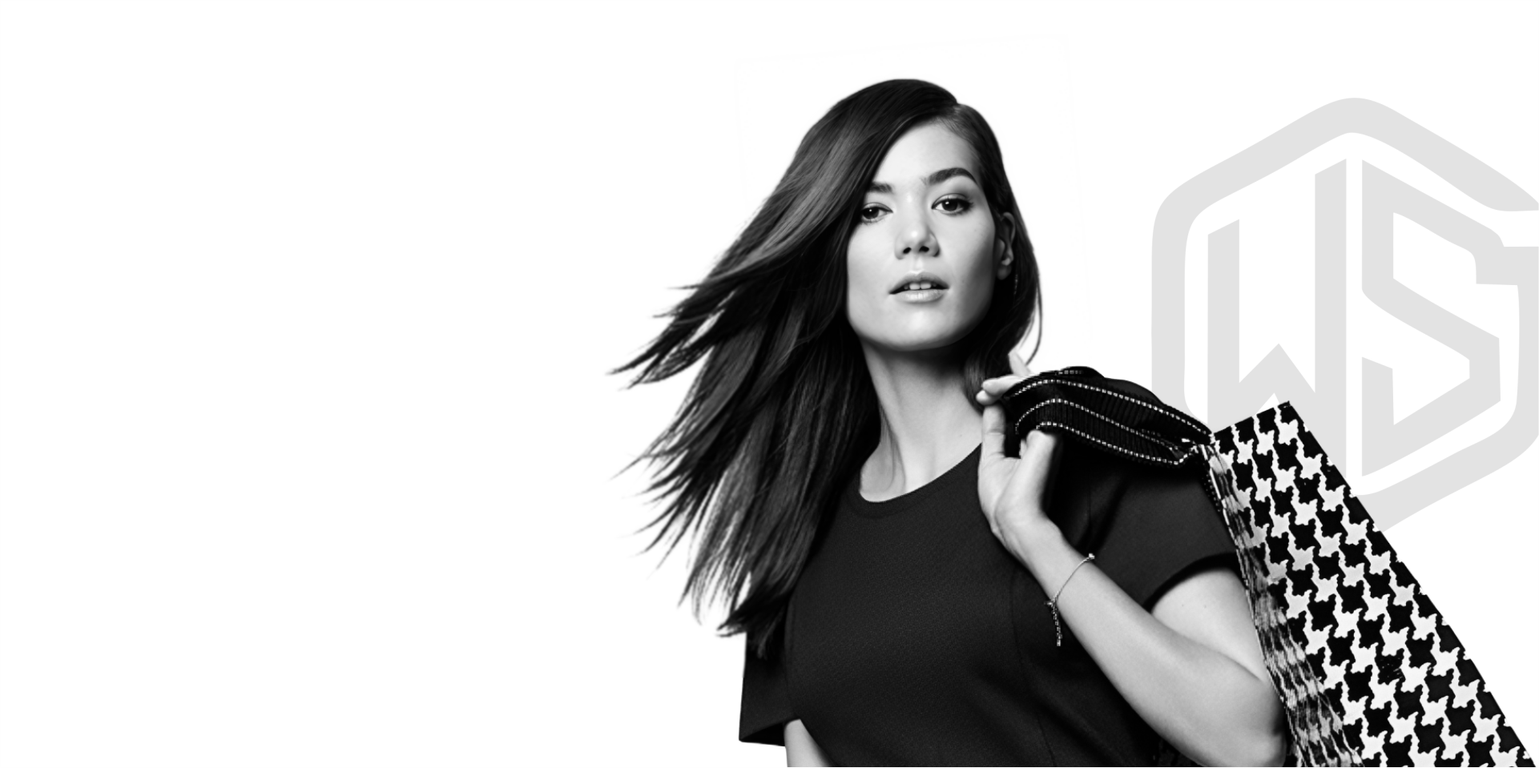
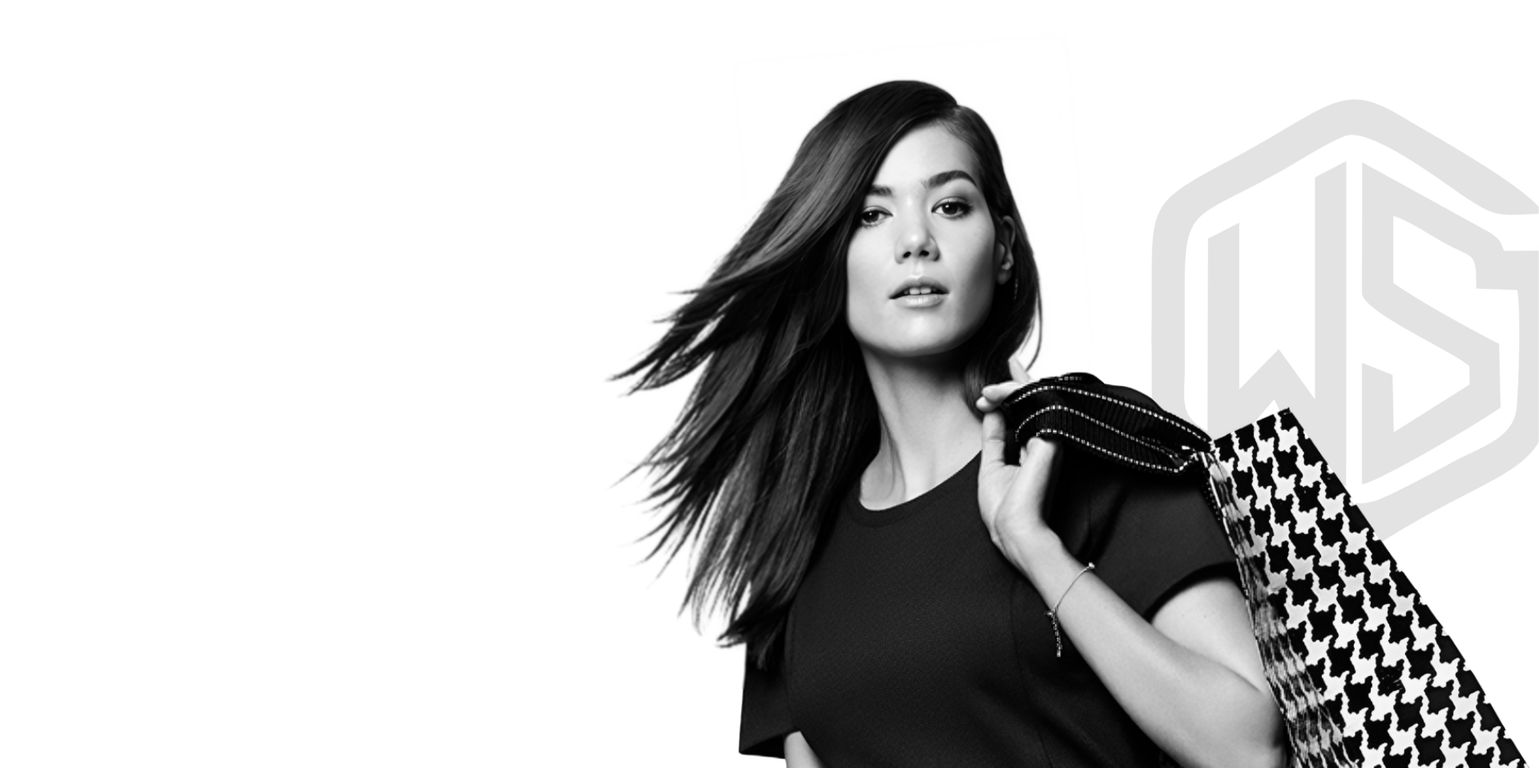
website ready for hostinger

diff --git a/build/dist/styles/style.css b/build/dist/styles/style.css
@@ -1,1 +1,1 @@
-*{padding:0;margin:0;scroll-behavior:smooth;scroll-padding-top:64px;font-family:Oswald,sans-serif;box-sizing:border-box}html{max-width:100%!important;overflow-x:hidden!important}img{-webkit-user-drag:none}.loader{position:fixed;top:0;left:0;width:100vw;height:100vh;display:flex;align-items:center;justify-content:center;background:#1a1a1a;z-index:9999!important;transition:opacity .75s,visibility .75s;gap:10px}.loader--hidden{opacity:0;visibility:hidden}.loader span{width:12px;height:12px;border-radius:50%;background:#fff;display:inline-block;animation:bounce .6s infinite ease-in-out}.loader span:nth-child(1){animation-delay:0s}.loader span:nth-child(2){animation-delay:.2s}.loader span:nth-child(3){animation-delay:.4s}@keyframes bounce{0%,100%{transform:translateY(0)}50%{transform:translateY(-15px)}}.btn{-webkit-border-radius:22px;-moz-border-radius:22px;border-radius:22px;color:#000;background-color:transparent;outline:#000;border:3.5px solid #000;transition:ease-in-out .5s;backdrop-filter:blur(10px)}.btn:hover{background-color:#000;outline:#000;border:3.5px solid #000;backdrop-filter:blur(10px)!important;color:#fff}.btn-primary{box-shadow:none!important;outline:#000;background-color:transparent;border:3.5px solid #000;backdrop-filter:blur(10px)!important}.btn-primary:active,.btn-primary:focus,.btn-primary:focus-visible,.btn:active,.btn:focus,.btn:focus-visible{background-color:transparent!important;outline:0!important;box-shadow:none!important;color:#000!important;border-color:#000!important;pointer-events:none!important}.btn-secondary{color:#fff;background-color:transparent;outline:#fff;border:3.5px solid #fff;transition:ease-in-out .5s;backdrop-filter:blur(10px);padding:5px 15px;text-transform:uppercase}.btn-secondary:hover{-webkit-border-radius:22px;-moz-border-radius:22px;border-radius:22px;background-color:#edd068;outline:#edd068;border:3.5px solid #edd068;backdrop-filter:blur(10px)!important;color:#000;font-weight:bolder;letter-spacing:2px}.btn-secondary:active,.btn-secondary:focus,.btn-secondary:focus-visible{background-color:transparent!important;outline:0!important;box-shadow:none!important;color:#fff!important;border-color:#fff!important;pointer-events:none!important}.btn-tertiary{color:#fff;background-color:transparent;outline:#fff;border:3.5px solid #fff;transition:ease-in-out .5s;backdrop-filter:blur(10px);padding:5px 15px;text-transform:uppercase}.btn-tertiary:hover{-webkit-border-radius:22px;-moz-border-radius:22px;border-radius:22px;background-color:#edd068;outline:#edd068;border:3.5px solid #edd068;backdrop-filter:blur(10px)!important;color:#000;font-weight:bolder;letter-spacing:2px}.btn-tertiary:active,.btn-tertiary:focus,.btn-tertiary:focus-visible{background-color:transparent!important;outline:0!important;box-shadow:none!important;color:#fff!important;border-color:#fff!important;pointer-events:none!important}@media (max-width:560px){.btn-tertiary{max-width:190px;font-size:.8rem!important;margin-top:1.8rem}}@media (min-width:561px) and (max-width:760px){.btn-tertiary{font-size:1rem;margin-top:1.5rem}}@media (min-width:761px){.btn-tertiary{max-width:300px;font-size:2rem}}body{width:100%;height:100vh;margin:0;overflow-x:hidden!important;overflow-y:auto;background-color:#fff}html{scrollbar-width:thin;scrollbar-color:#fff #1a1a1a!important}::-webkit-scrollbar{width:12px}::-webkit-scrollbar-track{background:#1a1a1a!important}::-webkit-scrollbar-thumb{background-color:#edd068!important;border-radius:10px;border:2px solid #000}::-webkit-scrollbar-thumb:hover{background-color:#3b3b3b}header{z-index:999!important;width:100%;top:0;left:0;background-color:transparent;font-family:"Special Gothic Condensed One",sans-serif;font-weight:100;position:static;margin-right:15px}.navbar{z-index:100!important;align-items:center;vertical-align:center;position:static;margin-right:15px}.nav-link.active{color:#000;background-color:transparent!important;border-bottom:5px solid #000;border-radius:0}@media (max-width:991px){header{background-color:transparent;backdrop-filter:blur(10px)}.nav-link.active{color:#edd068!important;border-bottom:3px solid #edd068;background-color:transparent!important}}.nav-link{text-align:center;margin-left:20px;padding-top:0;padding-bottom:0}.nav-link:hover{color:#fcd856!important}#brand-logo{max-height:22px;padding-top:0;padding-bottom:0!important;margin-left:0;margin-top:15px;height:auto;width:auto;transition:ease-in-out .5s}#brand-logo:hover{transform:scale(1.05)}.cta-nav{margin-top:5px}.cta-nav a{background-color:#edd068;color:#000;font-family:"Special Gothic Condensed One",sans-serif;font-weight:100;font-weight:700;text-decoration:none;padding:.4rem 2rem;transition:linear .2s}.cta-nav a:hover{background-color:#edd068;color:#000}.nav-link-cta{text-align:center;margin-left:20px;padding-bottom:0}.nav-item a{color:#000;font-family:"Special Gothic Condensed One",sans-serif;border-bottom:1px}.nav-tabs button{color:#000;text-decoration:none}.tab-content{color:#000}.nav-pills{display:flex;align-items:center!important;align-content:center}#home{background-color:#fff}.store-motto{font-family:Oswald,sans-serif;font-weight:300;font-style:normal;letter-spacing:2px}.hero-cta{letter-spacing:3px}.motto-description{color:#6a6a6a!important}.c-item{height:calc(100svh - 57px)}.c-img{align-items:center;height:100%;max-width:100%;object-fit:cover;object-position:top left}.logo-store{max-width:195px;padding-top:4rem;align-self:center;justify-self:center}#hero-carousel .carousel-item{position:relative}#hero-carousel .carousel-caption{position:absolute;left:0}.hero-header{display:flex;align-items:center;justify-content:flex-start;gap:2rem}@media (max-width:767px){.carousel-caption p{max-width:100%}.carousel-caption{margin-left:4rem}.logo-store{margin-left:auto}.hero-header{flex-direction:column;gap:1rem}}@media (min-width:768px) and (max-width:1020px){.carousel-caption p{max-width:75%}.carousel-caption{margin-left:5rem}.logo-store{margin-left:7rem}.hero-header{flex-direction:row}}@media (min-width:1021px){.carousel-caption p{max-width:44%}.carousel-caption{margin-left:7rem}.logo-store{margin-left:8rem}.hero-header{flex-direction:row}}#destaque{background-color:#1a1a1a;overflow:hidden!important}#destaque h3{color:#000!important}#destaque h1,#destaque h2,#destaque h4,#destaque h6,#destaque p{color:#000!important}.span-off{color:#edd068}.container-featured{max-width:1000px;padding:0;position:relative}.container-featured .container-featured-img{position:relative;width:100%}.container-featured .container-featured-img .span-header{font-weight:bolder;position:absolute;padding:25px;top:30px;left:60px;text-transform:uppercase;color:#fff;text-wrap:pretty;z-index:2}@media (max-width:560px){.container-featured .container-featured-img .span-header{font-size:3rem;line-height:3.2rem}}@media (min-width:561px) and (max-width:760px){.container-featured .container-featured-img .span-header{font-size:4rem;line-height:4rem}}@media (min-width:761px) and (max-width:960px){.container-featured .container-featured-img .span-header{font-size:6rem;line-height:6rem}}@media (min-width:961px){.container-featured .container-featured-img .span-header{font-size:9rem;line-height:8rem}}.container-featured .container-featured-img .span-header .span-text{font-weight:bolder;position:absolute;padding-left:5px;padding-top:10px;line-height:5px;text-transform:uppercase;color:#fff;text-wrap:pretty;z-index:2}@media (max-width:560px){.container-featured .container-featured-img .span-header .span-text{font-size:.8rem}}@media (min-width:561px) and (max-width:760px){.container-featured .container-featured-img .span-header .span-text{font-size:1rem}}@media (min-width:761px) and (max-width:960px){.container-featured .container-featured-img .span-header .span-text{font-size:2rem}}@media (min-width:961px){.container-featured .container-featured-img .span-header .span-text{font-size:2.2rem;line-height:28px}}.container-featured .container-featured-img .span-header a{z-index:5}.container-featured .img-discount-bg{width:100%;max-height:500px;object-fit:cover;object-position:center top;filter:brightness(.4);border-top-right-radius:30px;border-top-left-radius:30px}.container-featured .img-discount-abs{position:absolute;height:100%;max-width:100%;bottom:0;left:56%;z-index:3;overflow:hidden!important}.ticker-container{background-color:#000;overflow:hidden;white-space:nowrap;width:100%;padding-bottom:4px}.ticker-carousel{display:inline-block;padding-left:100%;animation:scroll-text 50s linear infinite;font-size:14px}.ticker-carousel span{color:#fff}@keyframes scroll-text{0%{transform:translateX(0)}100%{transform:translateX(-100%)}}#produtos{background-color:#1a1a1a}#produtos h3{color:#000!important}#produtos h1,#produtos h2,#produtos h4,#produtos h6,#produtos p,#produtos span{color:#000!important}.h2-white{color:#000!important;font-family:"Special Gothic Condensed One",sans-serif;letter-spacing:4px;background-color:#edd068;transition:ease-in-out .5s}.h2-white:hover{border-radius:25px;letter-spacing:10px}.container-trending{max-width:1000px;padding:0}.trending-products-top{height:300px;position:relative;display:block;overflow:hidden}.trending-products-top img{filter:blur(0) brightness(.6);transition:filter .5s ease-in-out;width:100%;height:100%;object-fit:cover;object-position:center top}.trending-products-top img:hover{filter:grayscale(0) blur(2px) brightness(.3)}.trending-products-bottom{position:relative;display:block;overflow:hidden}.trending-products-bottom img{filter:blur(0) brightness(.6);transition:filter .5s ease-in-out;width:100%;height:100%;object-fit:cover;object-position:center top}.trending-products-bottom img:hover{filter:grayscale(0) blur(2px) brightness(.3)}.text-overlay{position:absolute;top:50%;left:50%;transform:translate(-50%,-50%);color:#fff;font-weight:700;text-align:center;z-index:1;pointer-events:none;text-transform:uppercase}@media (max-width:560px){.text-overlay{font-size:1rem}.trending-products-bottom{height:250px}}@media (min-width:561px){.text-overlay{font-size:1.5rem}.trending-products-bottom{height:400px}}#novidades{background-color:#1a1a1a;box-shadow:0 4px 8px rgba(0,0,0,.4)}#novidades h3{color:#000!important}#novidades h1,#novidades h2,#novidades h4,#novidades h6,#novidades p,#novidades span{color:#fff!important}.container-newclothing{max-width:1000px;padding:0}.container-left-featured{max-width:450px}.container-left-featured img{max-width:100%;justify-self:center;align-self:center;border-top-right-radius:30px;border-top-left-radius:30px;border-bottom-right-radius:30px;border-bottom-left-radius:30px;width:100%;height:500px;object-fit:cover}.container-right-featured{max-width:450px;margin-right:20px}@media (max-width:768px){.container-newclothing{padding:0}.container-newclothing .container-left-featured{margin:0 auto;padding:0;text-align:center}.container-newclothing .container-left-featured img{padding:0;margin-right:0}}#contato{background-color:#1a1a1a}#contato h3{color:#000!important}#contato h1,#contato h2,#contato h4,#contato h6,#contato p,#contato span{color:#fff!important}.container-contact-banner{max-width:1000px;display:flex;align-items:center;text-align:center;padding:0}.container-contact-banner img{width:100%}#store-carousel .carousel-item{position:relative}.c-item-store{max-width:1000px;max-height:460px}.c-img-store{align-items:center;border-top-right-radius:30px;border-top-left-radius:30px;width:100%;object-fit:cover;object-position:center center}.container-contact{max-width:1000px;padding-right:0}.container-contact .container-left-contact{max-width:450px;margin-left:40px}.container-contact .container-right-contact{max-width:450px}.container-contact .container-right-contact .embed-map{height:355px;width:470px;margin-left:20px;margin-right:20px;max-width:100%}#contact-social-links a{text-decoration:none;margin-right:5px;transition:ease-in-out .2s}#contact-social-links a svg{color:#fff;margin-right:10px!important}#contact-social-links a svg:hover{color:#fce9a7}#info{background-color:#161616;border-bottom:3px solid!important;border-color:#edd068!important;color:#fff}.follow-us-footer{color:#edd068}#info-container{background-color:#161616;color:#fff;border-color:#161616}#footer-foot-note{background-color:#161616;padding-bottom:1rem}#footer-foot-note span,.footer-menu1,.footer-menu1 a,.footer-menu1 p{color:#fff!important}#footer-info{text-align:center}#footer-info p{color:#edd068}#footer-info span{color:#fff}#footer-info .store-brands img{height:auto;max-width:60px;max-height:80px;object-fit:contain;transition:ease-in-out .5s}#footer-info .store-brands img:hover{transform:scale(1.05)}#footer-logo{max-height:80px;transition:.5s ease-in-out}#footer-logo:hover{transform:scale(1.05)}.text-reset{transition:ease-in-out .2s}.text-reset:hover{color:#edd068!important}#footer-social-links a{text-decoration:none;margin-right:5px;transition:ease-in-out .2s}#footer-social-links a svg{color:#edd068;margin-left:10px!important}#footer-social-links a svg:hover{color:#fce9a7}.contact-footer{vertical-align:center!important;align-items:center;align-content:center;color:#fff}#footer-foot-note{color:#fff;display:flex;font-weight:700;justify-content:space-around}#footer-developed-by{font-weight:700}#footer-developed-by a{color:#fbfbfb;text-decoration:none;transition:.5s ease-in-out}#footer-developed-by a:hover{color:#2e86f3;text-decoration:underline}a,body,h1,h2,h3,h4,h5,h6,html,li,p,span,ul{color:#000}
+*{padding:0;margin:0;scroll-behavior:smooth;scroll-padding-top:64px;font-family:Oswald,sans-serif;box-sizing:border-box}html{max-width:100%!important;overflow-x:hidden!important}img{-webkit-user-drag:none}.loader{position:fixed;top:0;left:0;width:100vw;height:100vh;display:flex;align-items:center;justify-content:center;background:#1a1a1a;z-index:9999!important;transition:opacity .75s,visibility .75s;gap:10px}.loader--hidden{opacity:0;visibility:hidden}.loader span{width:12px;height:12px;border-radius:50%;background:#fff;display:inline-block;animation:bounce .6s infinite ease-in-out}.loader span:nth-child(1){animation-delay:0s}.loader span:nth-child(2){animation-delay:.2s}.loader span:nth-child(3){animation-delay:.4s}@keyframes bounce{0%,100%{transform:translateY(0)}50%{transform:translateY(-15px)}}.btn{-webkit-border-radius:22px;-moz-border-radius:22px;border-radius:22px;color:#000;background-color:transparent;outline:#000;border:3.5px solid #000;transition:ease-in-out .5s;backdrop-filter:blur(10px)}.btn:hover{background-color:#000;outline:#000;border:3.5px solid #000;backdrop-filter:blur(10px)!important;color:#fff}.btn-primary{box-shadow:none!important;outline:#000;background-color:transparent;border:3.5px solid #000;backdrop-filter:blur(10px)!important}.btn-primary:active,.btn-primary:focus,.btn-primary:focus-visible,.btn:active,.btn:focus,.btn:focus-visible{background-color:transparent!important;outline:0!important;box-shadow:none!important;color:#000!important;border-color:#000!important;pointer-events:none!important}.btn-secondary{color:#fff;background-color:transparent;outline:#fff;border:3.5px solid #fff;transition:ease-in-out .5s;backdrop-filter:blur(10px);padding:5px 15px;text-transform:uppercase}.btn-secondary:hover{-webkit-border-radius:22px;-moz-border-radius:22px;border-radius:22px;background-color:#edd068;outline:#edd068;border:3.5px solid #edd068;backdrop-filter:blur(10px)!important;color:#000;font-weight:bolder;letter-spacing:2px}.btn-secondary:active,.btn-secondary:focus,.btn-secondary:focus-visible{background-color:transparent!important;outline:0!important;box-shadow:none!important;color:#fff!important;border-color:#fff!important;pointer-events:none!important}.btn-tertiary{color:#fff;background-color:transparent;outline:#fff;border:3.5px solid #fff;transition:ease-in-out .5s;backdrop-filter:blur(10px);padding:5px 15px;text-transform:uppercase}.btn-tertiary:hover{-webkit-border-radius:22px;-moz-border-radius:22px;border-radius:22px;background-color:#edd068;outline:#edd068;border:3.5px solid #edd068;backdrop-filter:blur(10px)!important;color:#000;font-weight:bolder;letter-spacing:2px}.btn-tertiary:active,.btn-tertiary:focus,.btn-tertiary:focus-visible{background-color:transparent!important;outline:0!important;box-shadow:none!important;color:#fff!important;border-color:#fff!important;pointer-events:none!important}@media (max-width:560px){.btn-tertiary{max-width:190px;font-size:.8rem!important;margin-top:1.8rem}}@media (min-width:561px) and (max-width:760px){.btn-tertiary{font-size:1rem;margin-top:1.5rem}}@media (min-width:761px){.btn-tertiary{max-width:300px;font-size:2rem}}body{width:100%;height:100vh;margin:0;overflow-x:hidden!important;overflow-y:auto;background-color:#fff}html{scrollbar-width:thin;scrollbar-color:#fff #1a1a1a!important}::-webkit-scrollbar{width:12px}::-webkit-scrollbar-track{background:#1a1a1a!important}::-webkit-scrollbar-thumb{background-color:#edd068!important;border-radius:10px;border:2px solid #000}::-webkit-scrollbar-thumb:hover{background-color:#3b3b3b}header{z-index:999!important;width:100%;top:0;left:0;background-color:transparent;font-family:"Special Gothic Condensed One",sans-serif;font-weight:100;position:static;margin-right:15px}.navbar{z-index:100!important;align-items:center;vertical-align:center;position:static;margin-right:15px}.nav-link.active{color:#000;background-color:transparent!important;border-bottom:5px solid #000;border-radius:0}@media (max-width:991px){header{background-color:transparent;backdrop-filter:blur(10px)}.nav-link.active{color:#edd068!important;border-bottom:3px solid #edd068;background-color:transparent!important}}.nav-link{text-align:center;margin-left:20px;padding-top:0;padding-bottom:0}.nav-link:hover{color:#fcd856!important}#brand-logo{max-height:22px;padding-top:0;padding-bottom:0!important;margin-left:0;margin-top:15px;height:auto;width:auto;transition:ease-in-out .5s}#brand-logo:hover{transform:scale(1.05)}.cta-nav{margin-top:5px}.cta-nav a{background-color:#edd068;color:#000;font-family:"Special Gothic Condensed One",sans-serif;font-weight:100;font-weight:700;text-decoration:none;padding:.4rem 2rem;transition:linear .2s}.cta-nav a:hover{background-color:#edd068;color:#000}.nav-link-cta{text-align:center;margin-left:20px;padding-bottom:0}.nav-item a{color:#000;font-family:"Special Gothic Condensed One",sans-serif;border-bottom:1px}.nav-tabs button{color:#000;text-decoration:none}.tab-content{color:#000}.nav-pills{display:flex;align-items:center!important;align-content:center}#home{background-color:#fff}.store-motto{font-family:Oswald,sans-serif;font-weight:300;font-style:normal;letter-spacing:2px}.hero-cta{letter-spacing:3px}.motto-description{color:#6a6a6a!important}.c-item{height:calc(100svh - 57px)}.c-img{align-items:center;height:100%;max-width:100%;object-fit:cover;object-position:top left}.logo-store{max-width:195px;padding-top:4rem;align-self:center;justify-self:center}#hero-carousel .carousel-item{position:relative}#hero-carousel .carousel-caption{position:absolute;left:0}.hero-header{display:flex;align-items:center;justify-content:flex-start;gap:2rem}@media (max-width:767px){.carousel-caption p{max-width:100%}.carousel-caption{margin-left:4rem}.logo-store{margin-left:auto}.hero-header{flex-direction:column;gap:1rem}}@media (min-width:768px) and (max-width:1020px){.carousel-caption p{max-width:75%}.carousel-caption{margin-left:5rem}.logo-store{margin-left:7rem}.hero-header{flex-direction:row}}@media (min-width:1021px){.carousel-caption p{max-width:44%}.carousel-caption{margin-left:7rem}.logo-store{margin-left:8rem}.hero-header{flex-direction:row}}#destaque{background-color:#1a1a1a;overflow:hidden!important}#destaque h3{color:#000!important}#destaque h1,#destaque h2,#destaque h4,#destaque h6,#destaque p{color:#000!important}.span-off{color:#edd068}.container-featured{max-width:1000px;padding:0;position:relative}.container-featured .container-featured-img{position:relative;width:100%}.container-featured .container-featured-img .span-header{font-weight:bolder;position:absolute;padding:25px;top:30px;left:60px;text-transform:uppercase;color:#fff;text-wrap:pretty;z-index:2}@media (max-width:560px){.container-featured .container-featured-img .span-header{font-size:3rem;line-height:3.2rem}}@media (min-width:561px) and (max-width:760px){.container-featured .container-featured-img .span-header{font-size:4rem;line-height:4rem}}@media (min-width:761px) and (max-width:960px){.container-featured .container-featured-img .span-header{font-size:6rem;line-height:6rem}}@media (min-width:961px){.container-featured .container-featured-img .span-header{font-size:9rem;line-height:8rem}}.container-featured .container-featured-img .span-header .span-text{font-weight:bolder;position:absolute;padding-left:5px;padding-top:10px;line-height:5px;text-transform:uppercase;color:#fff;text-wrap:pretty;z-index:2}@media (max-width:560px){.container-featured .container-featured-img .span-header .span-text{font-size:.8rem}}@media (min-width:561px) and (max-width:760px){.container-featured .container-featured-img .span-header .span-text{font-size:1rem}}@media (min-width:761px) and (max-width:960px){.container-featured .container-featured-img .span-header .span-text{font-size:2rem}}@media (min-width:961px){.container-featured .container-featured-img .span-header .span-text{font-size:2.2rem;line-height:28px}}.container-featured .container-featured-img .span-header a{z-index:5}.container-featured .img-discount-bg{width:100%;max-height:500px;object-fit:cover;object-position:center top;filter:brightness(.4);border-top-right-radius:30px;border-top-left-radius:30px}.container-featured .img-discount-abs{position:absolute;height:100%;max-width:100%;bottom:0;left:56%;z-index:3;overflow:hidden!important}.ticker-container{background-color:#000;overflow:hidden;white-space:nowrap;width:100%;padding-bottom:4px}.ticker-carousel{display:inline-block;padding-left:100%;animation:scroll-text 50s linear infinite;font-size:14px}.ticker-carousel span{color:#fff}@keyframes scroll-text{0%{transform:translateX(0)}100%{transform:translateX(-100%)}}#produtos{background-color:#1a1a1a}#produtos h3{color:#000!important}#produtos h1,#produtos h2,#produtos h4,#produtos h6,#produtos p,#produtos span{color:#000!important}.h2-white{color:#000!important;font-family:"Special Gothic Condensed One",sans-serif;letter-spacing:4px;background-color:#edd068;transition:ease-in-out .5s}.h2-white:hover{border-radius:25px;letter-spacing:10px}.container-trending{max-width:1000px;padding:0}.trending-products-top{height:300px;position:relative;display:block;overflow:hidden}.trending-products-top img{filter:blur(0) brightness(.6);transition:filter .5s ease-in-out;width:100%;height:100%;object-fit:cover;object-position:center top}.trending-products-top img:hover{filter:grayscale(0) blur(2px) brightness(.3)}.trending-products-bottom{position:relative;display:block;overflow:hidden}.trending-products-bottom img{filter:blur(0) brightness(.6);transition:filter .5s ease-in-out;width:100%;height:100%;object-fit:cover;object-position:center top}.trending-products-bottom img:hover{filter:grayscale(0) blur(2px) brightness(.3)}.text-overlay{position:absolute;top:50%;left:50%;transform:translate(-50%,-50%);color:#fff;font-weight:700;text-align:center;z-index:1;pointer-events:none;text-transform:uppercase}@media (max-width:560px){.text-overlay{font-size:1rem}.trending-products-bottom{height:250px}}@media (min-width:561px){.text-overlay{font-size:1.5rem}.trending-products-bottom{height:400px}}#novidades{background-color:#1a1a1a;box-shadow:0 4px 8px rgba(0,0,0,.4)}#novidades h3{color:#000!important}#novidades h1,#novidades h2,#novidades h4,#novidades h6,#novidades p,#novidades span{color:#fff!important}.container-newclothing{max-width:1000px;padding:0}.container-left-featured{max-width:450px}.container-left-featured img{max-width:100%;justify-self:center;align-self:center;border-top-right-radius:30px;border-top-left-radius:30px;border-bottom-right-radius:30px;border-bottom-left-radius:30px;width:100%;height:500px;object-fit:cover}.container-right-featured{max-width:450px;margin-right:20px;min-height:200px}@media (max-width:768px){.container-newclothing{padding:0}.container-newclothing .container-left-featured{margin:0 auto;padding:0;text-align:center}.container-newclothing .container-left-featured img{padding:0;margin-right:0}}#contato{background-color:#1a1a1a}#contato h3{color:#000!important}#contato h1,#contato h2,#contato h4,#contato h6,#contato p,#contato span{color:#fff!important}.container-contact-banner{max-width:1000px;display:flex;align-items:center;text-align:center;padding:0}.container-contact-banner img{width:100%}#store-carousel .carousel-item{position:relative}.c-item-store{max-width:1000px;max-height:460px}.c-img-store{align-items:center;border-top-right-radius:30px;border-top-left-radius:30px;width:100%;object-fit:cover;object-position:center center}.container-contact{max-width:1000px;padding-right:0}.container-contact .container-left-contact{max-width:450px;margin-left:40px}.container-contact .container-right-contact{max-width:450px}.container-contact .container-right-contact .embed-map{height:355px;width:470px;margin-left:20px;margin-right:20px;max-width:100%}#contact-social-links a{text-decoration:none;margin-right:5px;transition:ease-in-out .2s}#contact-social-links a svg{color:#fff;margin-right:10px!important}#contact-social-links a svg:hover{color:#fce9a7}.container-contact-text{margin-right:15px}#info{background-color:#161616;border-bottom:3px solid!important;border-color:#edd068!important;color:#fff}.follow-us-footer{color:#edd068}#info-container{background-color:#161616;color:#fff;border-color:#161616}#footer-foot-note{background-color:#161616;padding-bottom:1rem}#footer-foot-note span,.footer-menu1,.footer-menu1 a,.footer-menu1 p{color:#fff!important}#footer-info{text-align:center}#footer-info p{color:#edd068}#footer-info span{color:#fff}#footer-info .store-brands img{height:auto;max-width:60px;max-height:80px;object-fit:contain;transition:ease-in-out .5s}#footer-info .store-brands img:hover{transform:scale(1.05)}#footer-logo{max-height:80px;transition:.5s ease-in-out}#footer-logo:hover{transform:scale(1.05)}.text-reset{transition:ease-in-out .2s}.text-reset:hover{color:#edd068!important}#footer-social-links a{text-decoration:none;margin-right:5px;transition:ease-in-out .2s}#footer-social-links a svg{color:#edd068;margin-left:10px!important}#footer-social-links a svg:hover{color:#fce9a7}.contact-footer{vertical-align:center!important;align-items:center;align-content:center;color:#fff}#footer-foot-note{color:#fff;display:flex;font-weight:700;justify-content:space-around}#footer-developed-by{font-weight:700}#footer-developed-by a{color:#fbfbfb;text-decoration:none;transition:.5s ease-in-out}#footer-developed-by a:hover{color:#2e86f3;text-decoration:underline}a,body,h1,h2,h3,h4,h5,h6,html,li,p,span,ul{color:#000}

diff --git a/index.html b/index.html
@@ -37,7 +37,7 @@
     <!--Bootstrap CDNs-->
     <link href="https://cdn.jsdelivr.net/npm/bootstrap@5.3.3/dist/css/bootstrap.min.css" rel="stylesheet">
     <!--CSS CHANGE TO "build/dist/styles/style.css" AFTER GULP SCRIPT--> 
-    <link rel="stylesheet" href="build/styles/style.css">
+    <link rel="stylesheet" href="build/dist/styles/style.css">
     <!--SCRIPTS-->
     <script defer src="./build/dist/scripts/script.js"></script>
     <script defer src="./build/dist/scripts/dropdown.js"></script>
@@ -92,8 +92,8 @@
                 <div class="carousel-inner">
                     <div class="carousel-item active c-item">
                         <img src="./build/dist/img/banner_hero.webp" draggable="false" alt="Modelo fashion com bolsa" class="d-block w-100 c-img" loading="lazy" draggable="false">
-                        <div class="carousel-caption hero-container-inner top-0 mt-3 text-sm-center text-md-start">
-                            <img src="./build/dist/img/logo_full.webp" class="img-fluid logo-store" draggable="false" loading="lazy" alt="Espaço WS Logo"> <!--Logo-->
+                        <div class="carousel-caption hero-container-inner top-0 mt-5 text-sm-center text-md-start">
+                            <img src="./build/dist/img/logo_full.webp" class="img-fluid logo-store mt-5" draggable="false" loading="lazy" alt="Espaço WS Logo"> <!--Logo-->
                             <h1 class="display-6 fw-bolder text-uppercase store-motto mt-3 text-sm-center text-md-start pb-0 mb-0">Seu estilo de todo dia</h1>
                             <p class="mt-0 pt-0 fs-5 fs-sm-4 fs-md-1 mb-0 text-sm-center text-md-start motto-description">
                                 Conheça nossa seleção e descubra o que há de melhor para o seu guarda-roupa.
@@ -101,21 +101,8 @@
                             <a href="javascript:void(0)" title="Whatsapp" id="contact-whatsapp-hero" target="_blank" class="mb-5">
                                 <button class="btn btn-primary px-4 py-2 fs-5 mt-4 text-uppercase hero-cta">Entrar em contato</button>
                             </a>
-                            
                         </div>
                     </div>
-                    <!--
-                    <div class="carousel-item c-item">
-                        <img src="./build/dist/img/product_1.webp" draggable="false" alt="" class="d-block w-100 c-img" loading="lazy">
-                        <div class="carousel-caption top-0 mt-4">
-                            <p class="mt-5 display-3 fw-bolder text-capitalize carousel-txt">Aqui nós temos</p>
-                        </div>
-                    </div>
-                    <div class="carousel-indicators">
-                        <button type="button" data-bs-target="#hero-carousel" data-bs-slide-to="0" class="active" aria-current="true" aria-label="Slide 1"></button>
-                        <button type="button" data-bs-target="#hero-carousel" data-bs-slide-to="1" aria-label="Slide 2"></button>
-                    </div>
-                    -->
                 </div>
             </div>   
         </main>
